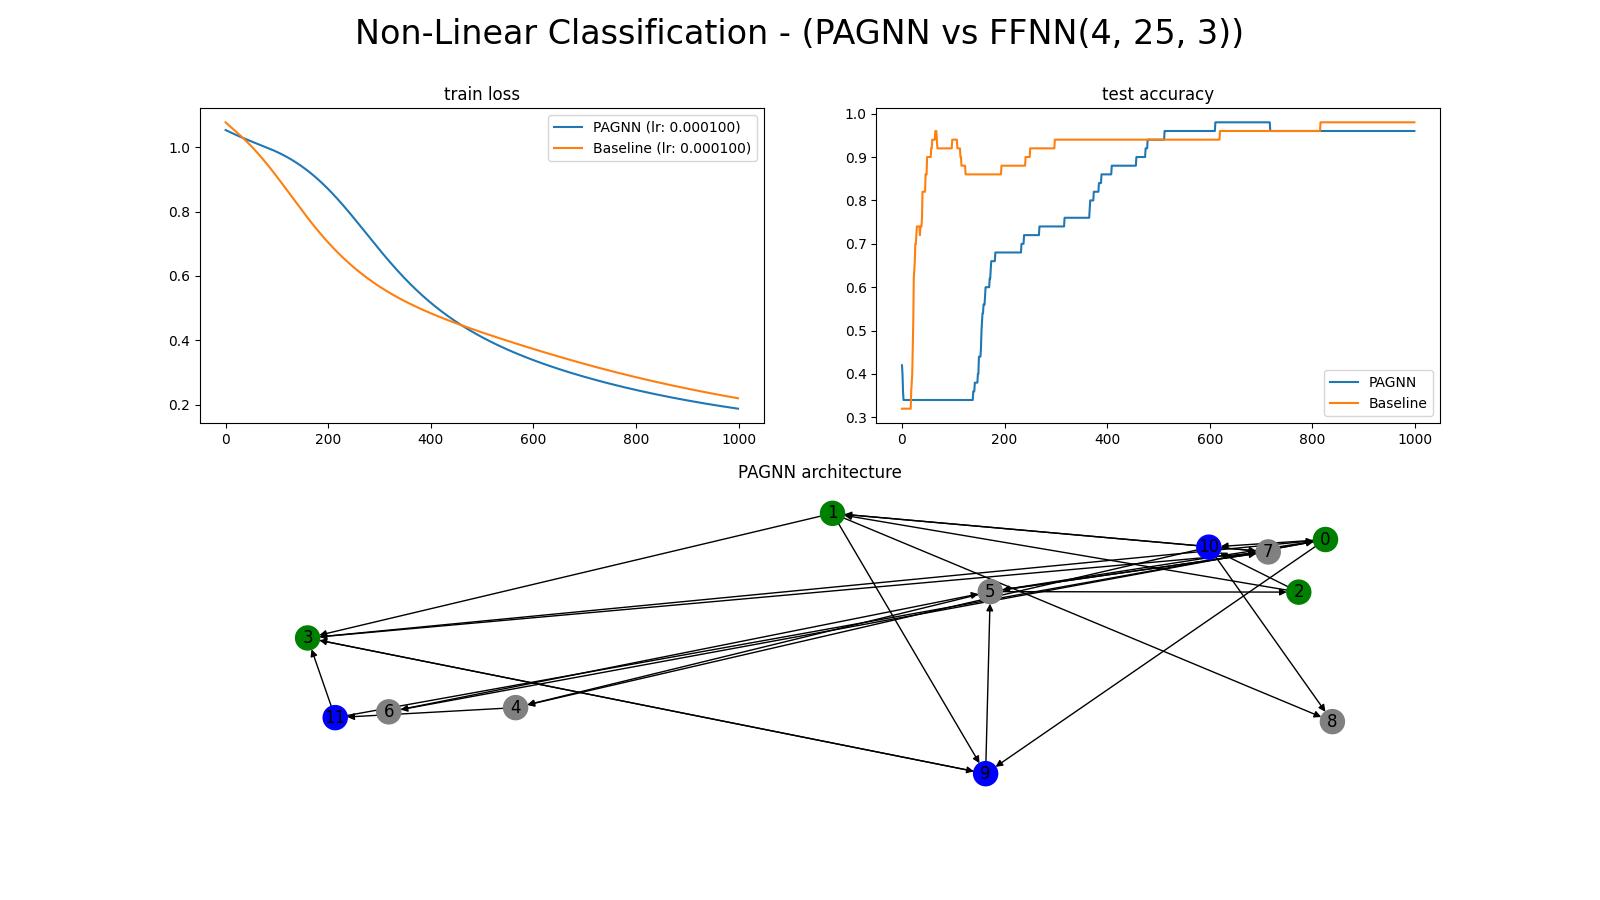
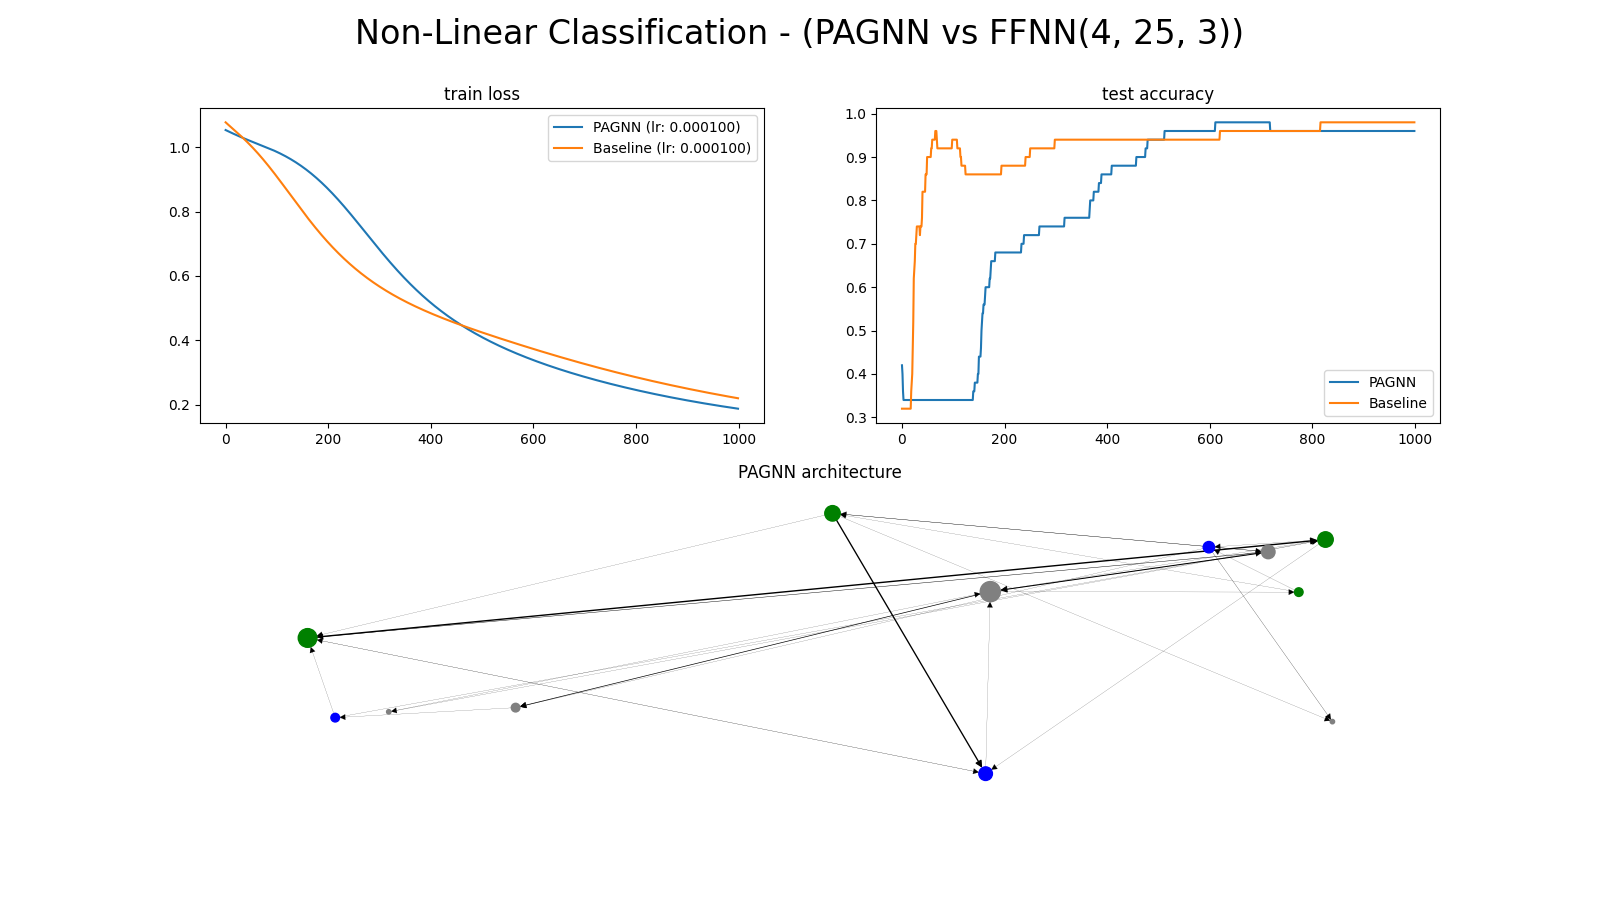
use scaled weights

diff --git a/comparisons/non_linear_classification.py b/comparisons/non_linear_classification.py
@@ -166,8 +166,7 @@ if __name__ == '__main__':
     plt.title('test accuracy')
 
     plt.subplot(212)
-    G, color_map = pagnn.get_networkx_graph(return_color_map=True)
-    nx.draw(G, with_labels=True, node_color=color_map)
+    pagnn.draw_networkx_graph(mode='scaled_weights')
     plt.title('PAGNN architecture')
 
     plt.savefig('figures/non_linear_classification.png', transparent=True)
